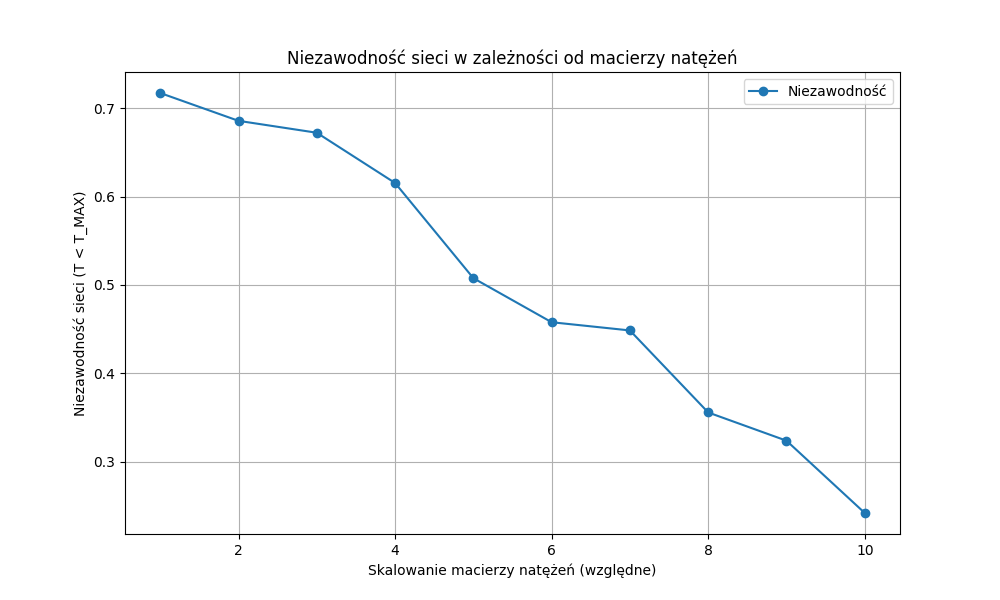
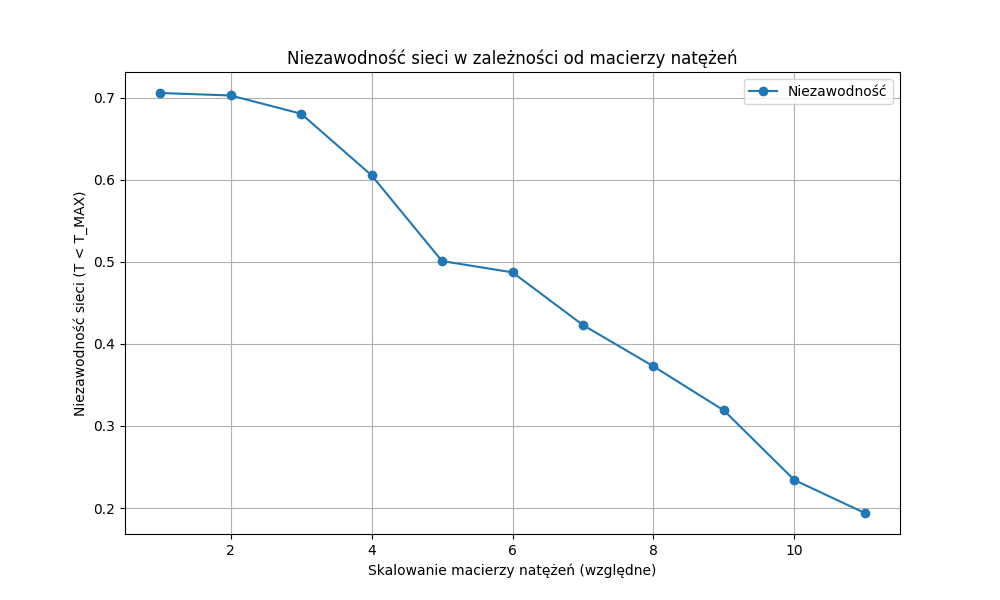
pomocypomocypomocypomocypomocypomocypomocypomocypomocypomocypomocypomocypomocypomocypomocypomocypomocypomocypomocypomocypomocypomocypomocypomocypomocy

diff --git a/gepti.py b/gepti.py
@@ -232,7 +232,9 @@ def main():
     reliability_values = []
     flow_scaling = []
 
-    for t in range(10):
+    TEST_SIZE = 11
+
+    for t in range(TEST_SIZE):
         for i in range(NUM_NODES):
             for j in range(NUM_NODES):
                 N[(i, j)] += 0.2
@@ -257,7 +259,7 @@ def main():
 
     for i in range(NUM_NODES):
             for j in range(NUM_NODES):
-                N[(i, j)] -= 2
+                N[(i, j)] -= 0.2 * TEST_SIZE
                 if j == i:
                     N[(i, j)] = 0
     
@@ -267,7 +269,7 @@ def main():
     reliability_values = []
     capacity_scaling = []
 
-    for t in range(10):
+    for t in range(TEST_SIZE):
         CAPACITY_MIN = int(CAPACITY_MIN * 1.05)
         CAPACITY_MAX = int(CAPACITY_MAX * 1.05)
 
@@ -295,7 +297,7 @@ def main():
     added_edges = []
     reliability_values = []
 
-    for i in range(10):
+    for i in range(TEST_SIZE):
         cap = random.randint(CAPACITY_MIN, CAPACITY_MAX)
         G.add_edge(random.randint(0, 19), random.randint(0, 19), capacity=cap, cost=1)
         reliability = simulate_reliability(G, N, EDGE_RELIABILITY, T_MAX, PACKET_SIZE, iterations=MC_ITER)
@@ -304,6 +306,7 @@ def main():
         print(f"Liczba dodanych krawędzi: {i + 1}, Niezawodność: {reliability:.4f}")
 
     # Tworzenie wykresu
+    plt.figure(figsize=(10, 6))
     plt.plot(added_edges, reliability_values, marker='o', label="Niezawodność")
     plt.xlabel("Liczba dodanych krawędzi")
     plt.ylabel("Niezawodność sieci (T < T_MAX)")
@@ -313,6 +316,6 @@ def main():
     plt.savefig("dodane_krawedzie.png")
 
     plot_graph(G, flows)
-    
+
 if __name__ == '__main__':
     main()
